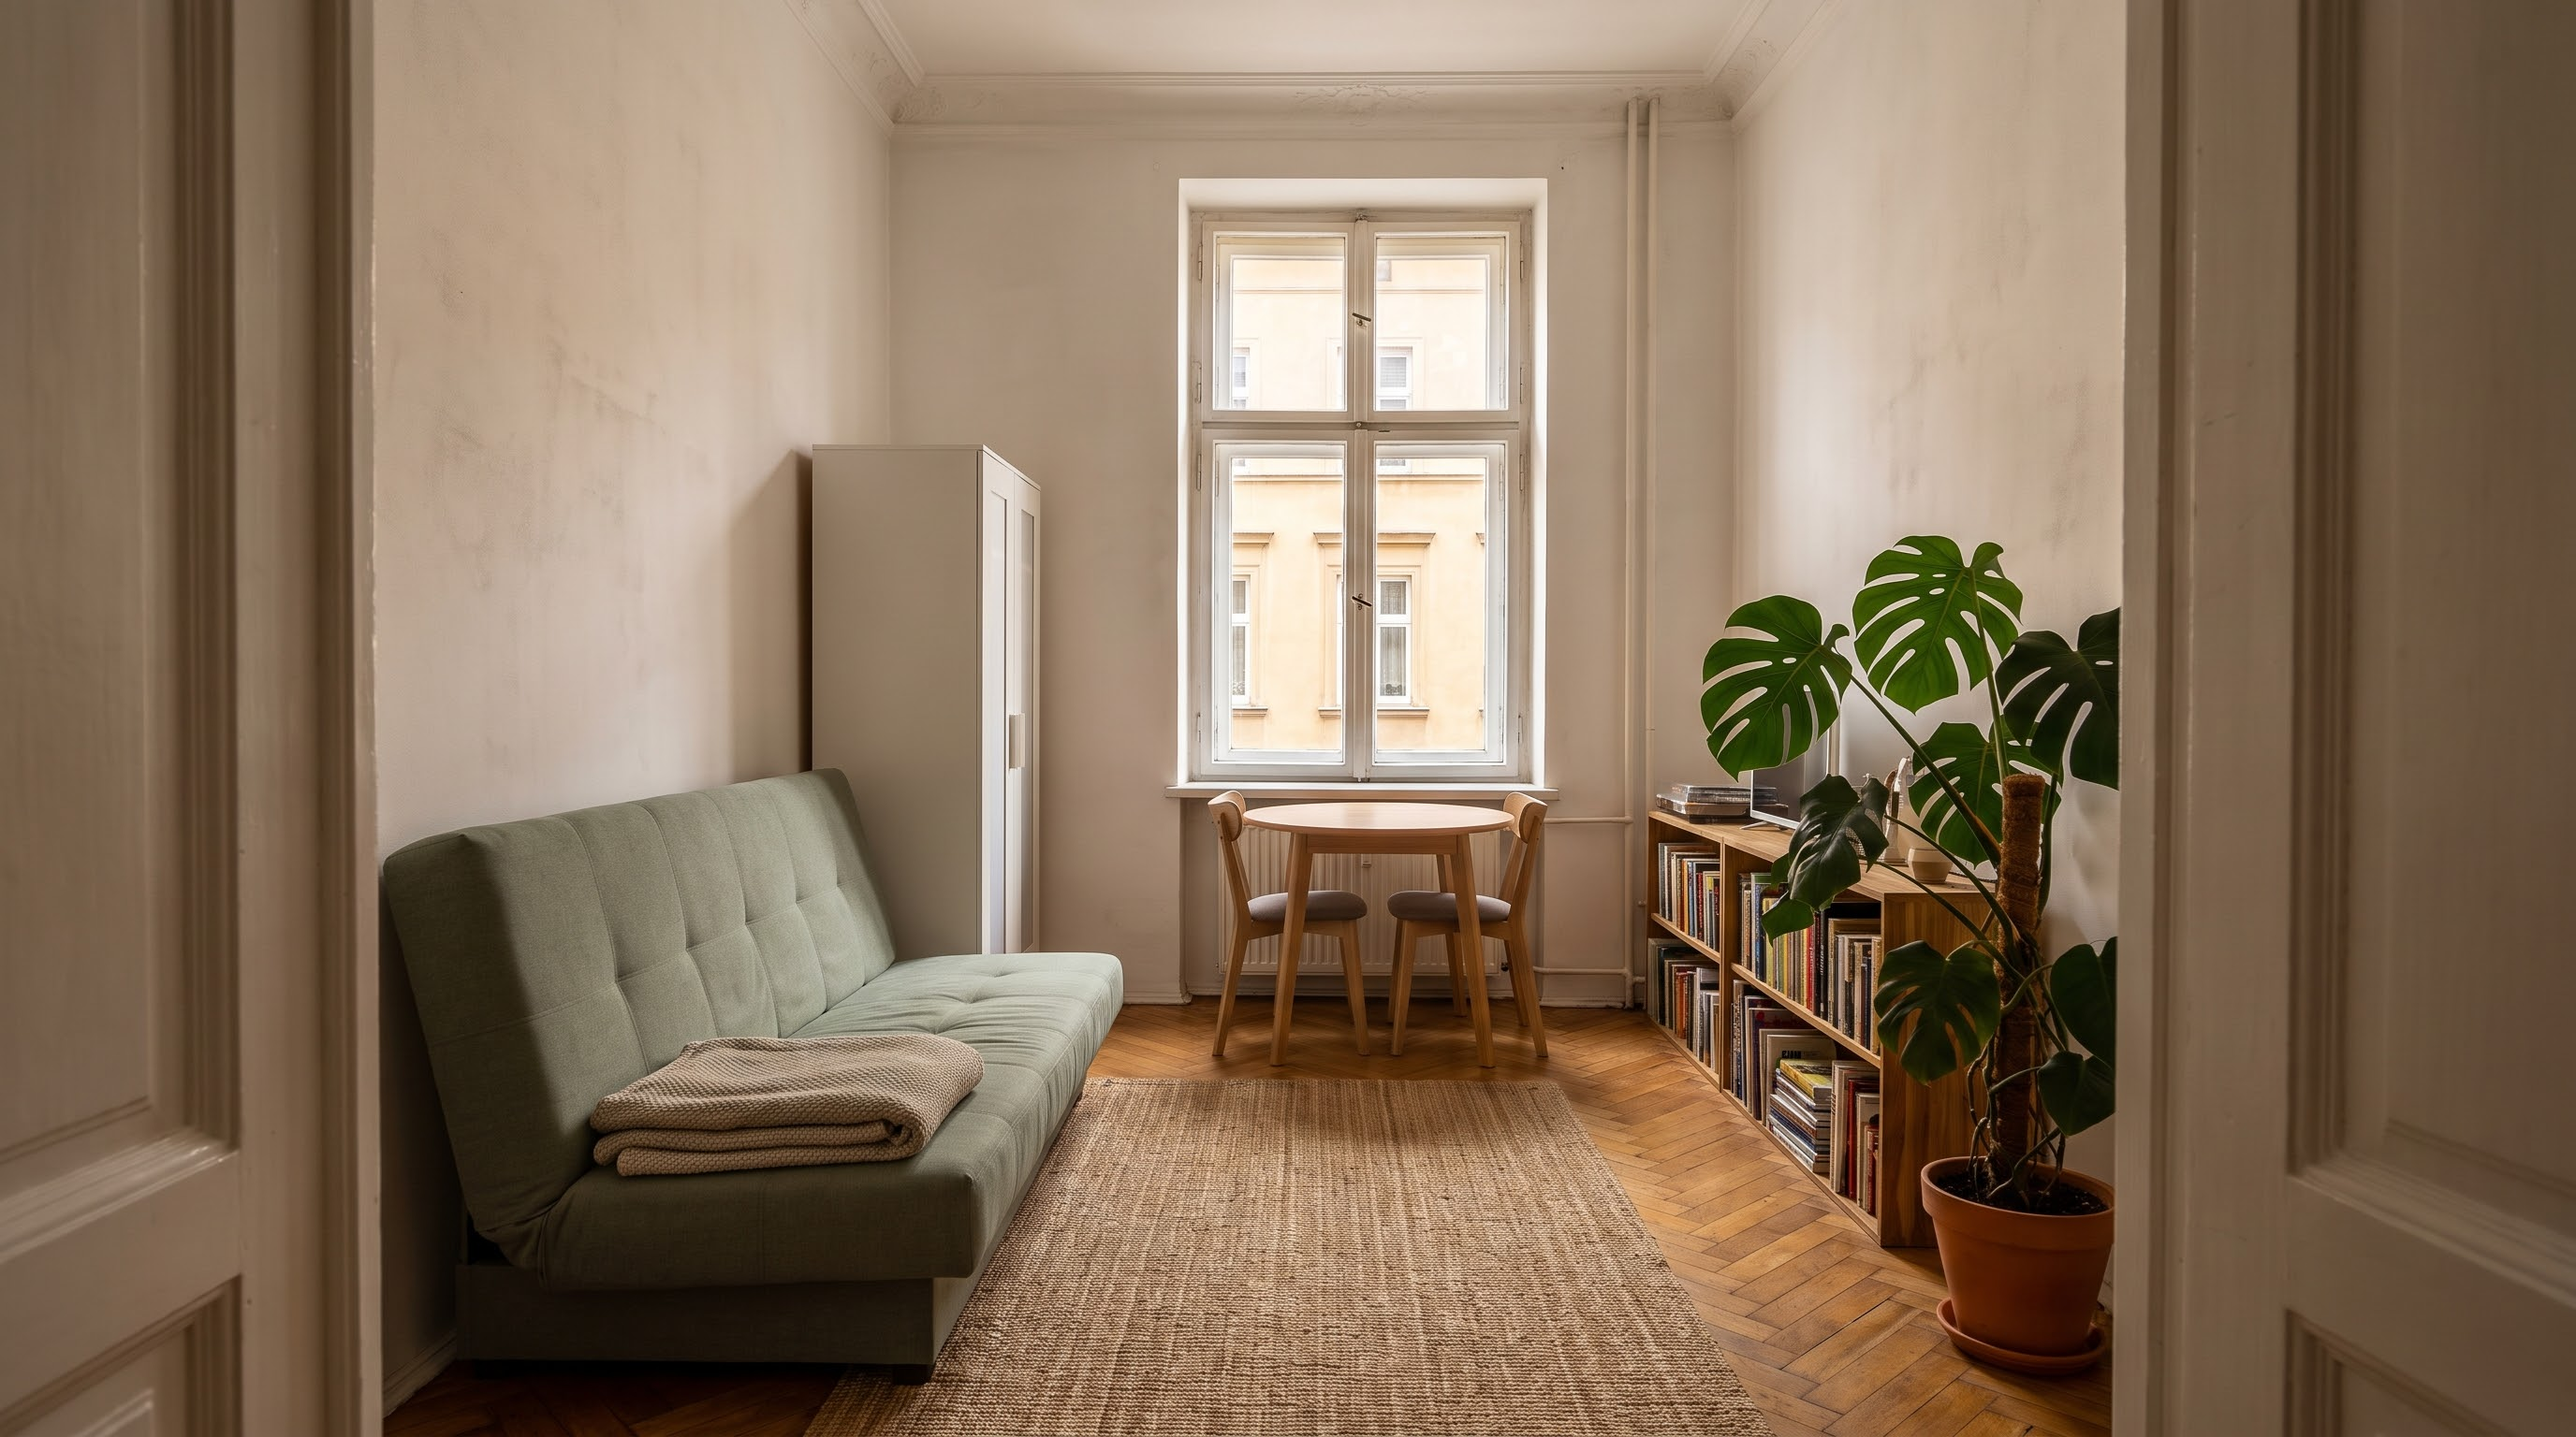
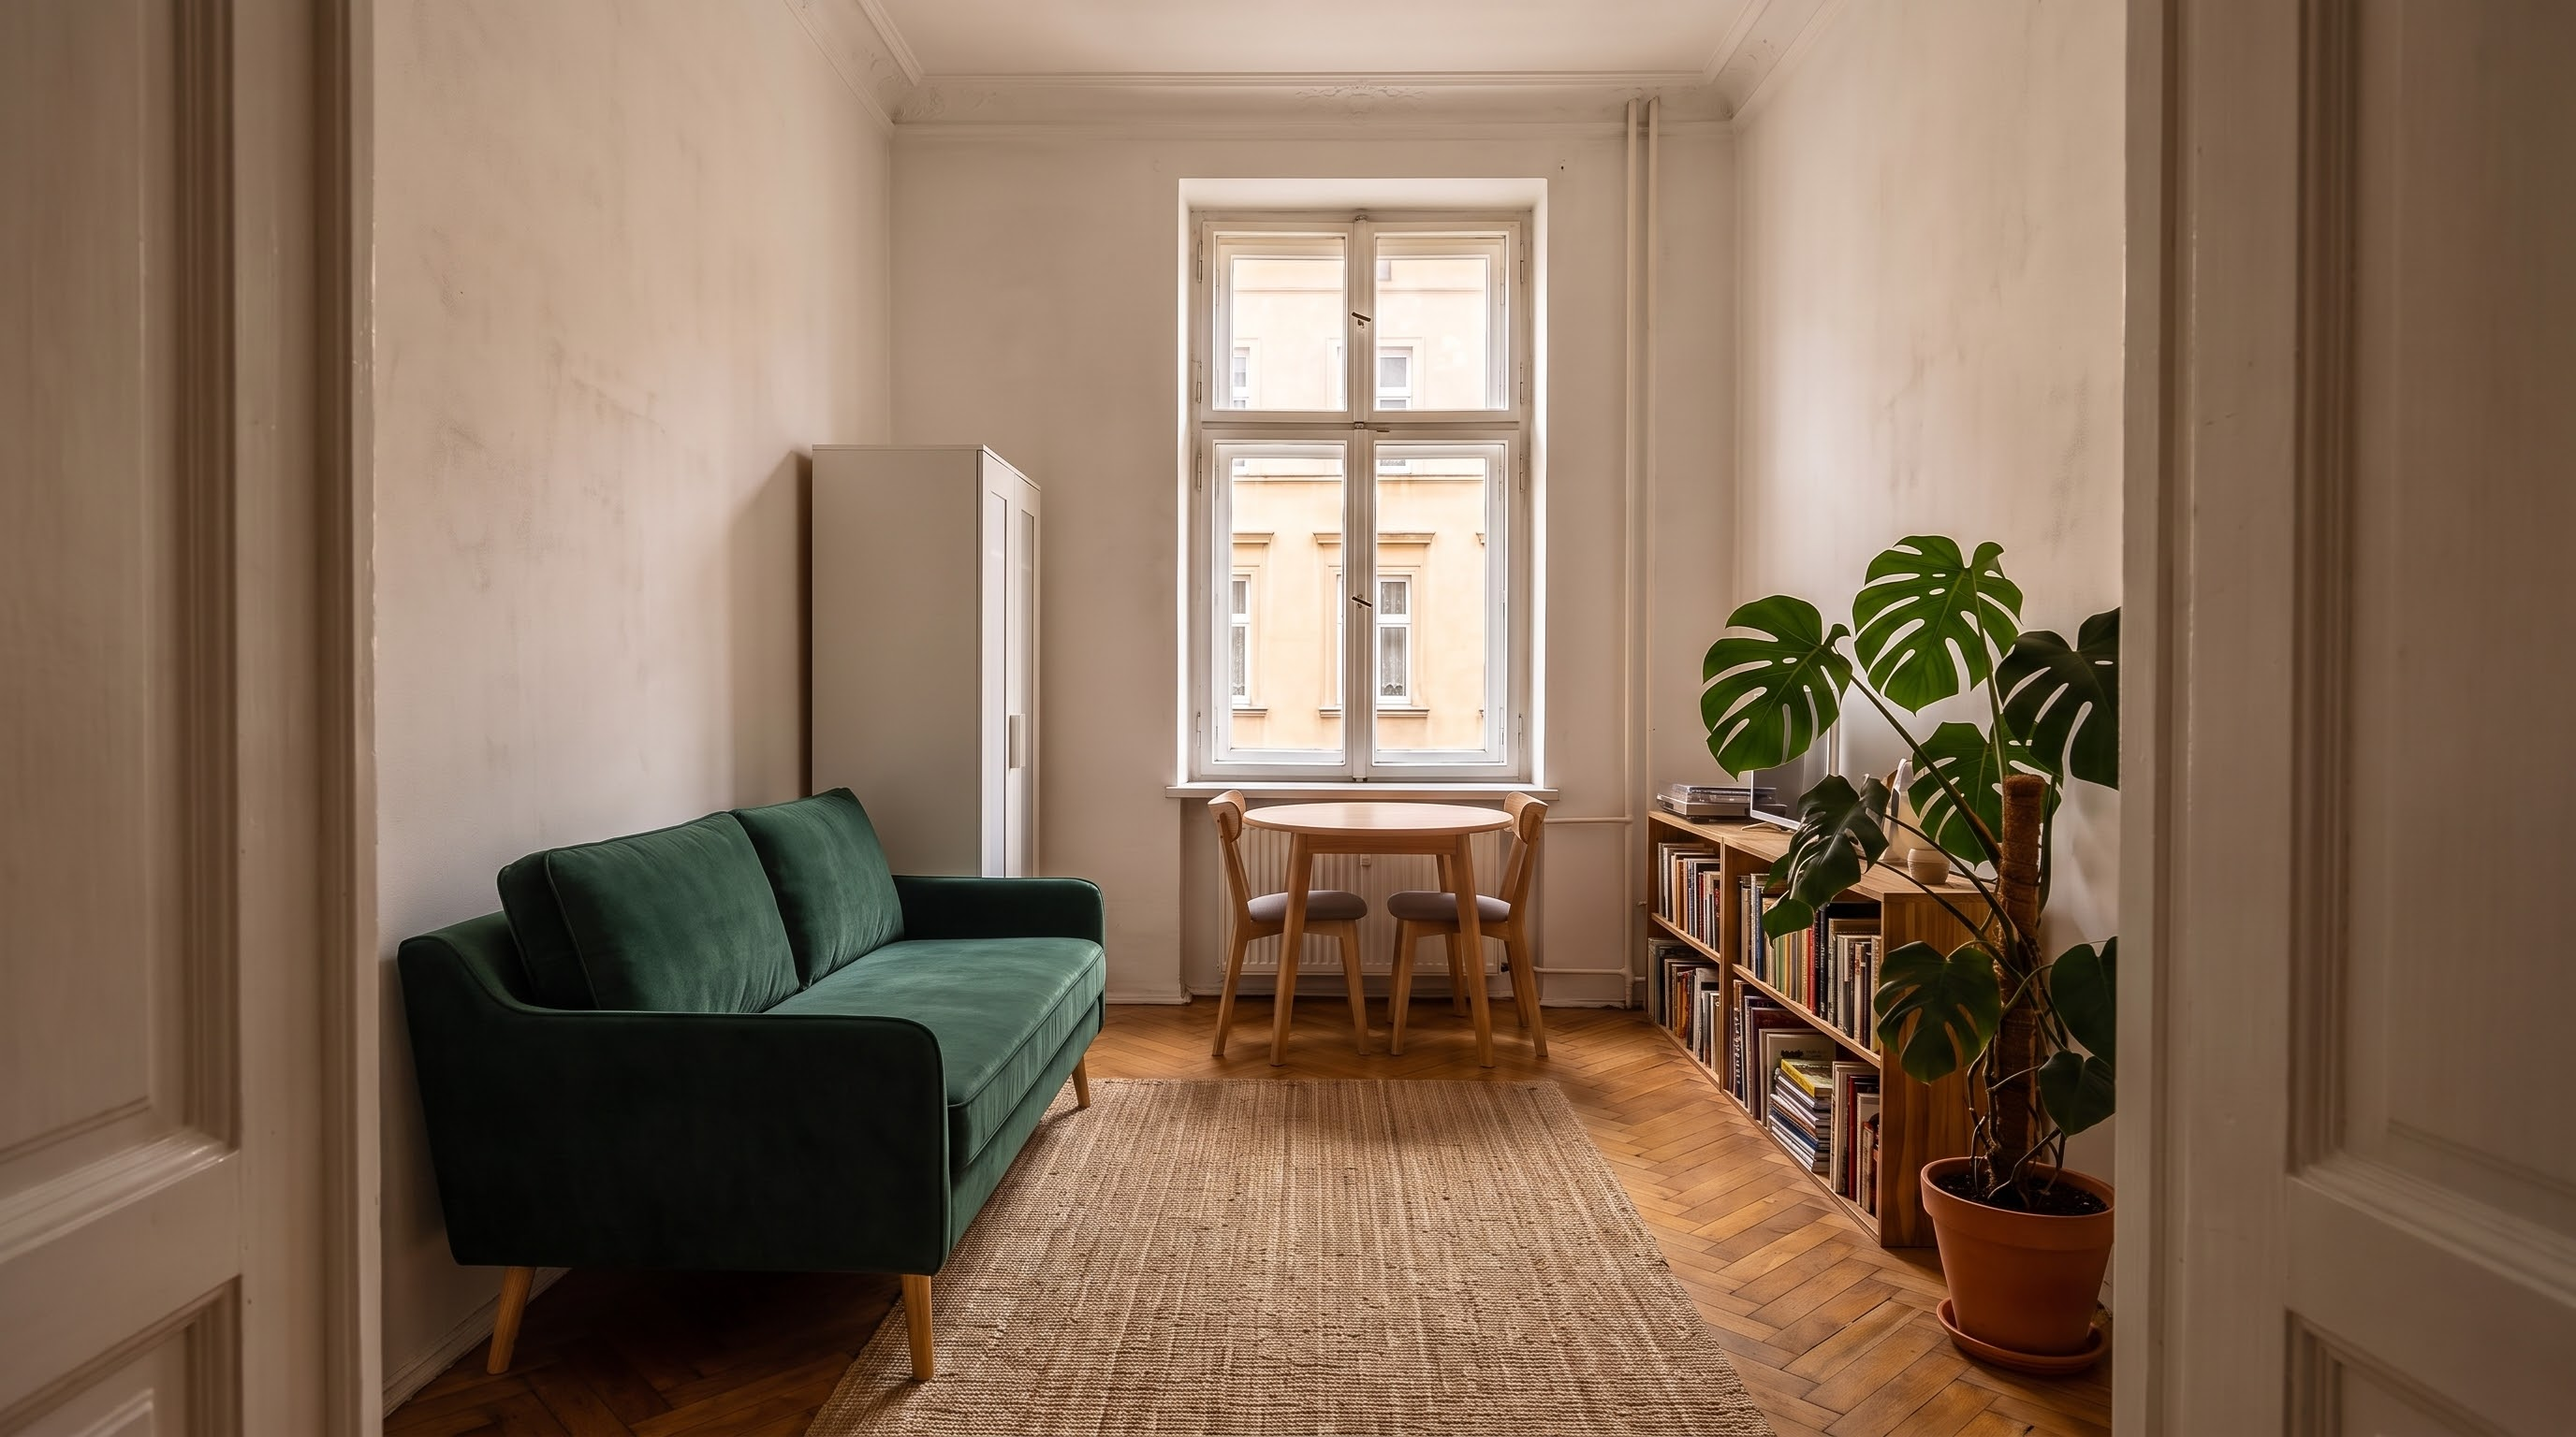
Teledysk: nowa referencja kawalerki z zieloną kanapą
Stara wersja z wersalką zachowana jako kawalerka-wersalka.jpg.

Claude-Session: https://claude.ai/code/session_017HdsdvSM8Q53B8Cp1PevCF

Changed region(s): [[0.125, 0.5312, 0.6875, 1.0], [0.625, 0.5312, 0.7812, 0.8438], [0.5312, 0.4688, 0.5625, 0.5]]

diff --git a/teledysk/lokacje.md b/teledysk/lokacje.md
@@ -36,12 +36,14 @@ DOM: a wide modern single-storey suburban house, long side facing the street, lo
 ![Kawalerka](referencje/kawalerka.jpg)
 
 ```text
-KAWALERKA: a small narrow studio room in an old Polish tenement, seen from the white double entrance door. High ceiling with an ornate plaster cornice, warm-white walls, worn honey-oak herringbone parquet, a woven jute rug. On the far wall, one tall old double-casement window with white wooden frames looking at the pale ochre tenement facade across the street, a white radiator under it, a small round light-oak table with two chairs. Along the left wall, a sage-green fabric sofa bed with a folded oatmeal knit blanket and a narrow white wardrobe behind it. Along the right wall, a long low oak bookshelf packed with books and a tall monstera in a terracotta pot on the floor in the right corner.
+KAWALERKA: a small narrow studio room in an old Polish tenement, seen from the white double entrance door. High ceiling with an ornate plaster cornice, warm-white walls, worn honey-oak herringbone parquet, a woven jute rug. On the far wall, one tall old double-casement window with white wooden frames looking at the pale ochre tenement facade across the street, a white radiator under it, a small round light-oak table with two chairs. Along the left wall, a compact two-seater mid-century sofa bed in deep bottle-green velvet on slim tapered oak legs, a narrow white wardrobe behind it. Along the right wall, a long low oak bookshelf packed with books and a tall monstera in a terracotta pot on the floor in the right corner.
 ```
+
+**Wersja z 9.10:** nowa referencja z butelkowo-zieloną rozkładaną kanapą mid-century (edycja NBP, pokój zachowany 1:1). Stara wersja z szałwiową wersalką i kocem: `referencje/kawalerka-wersalka.jpg`.
 
 **Uwaga:** światło na referencji jest przygaszone i chłodnawe. W ujęciach dziennych możemy dodać słońce wpadające przez okno. Kontrast między ciemną, ciasną kawalerką a jasnym domem jest celowy.
 
-## KAWALERKA: nowa kanapa (w toku)
+## KAWALERKA: nowa kanapa ✅ (zrobione 9.10)
 
 Cel: w tym samym kadrze stara kanapa szałwiowa zamieniona na kompaktową dwuosobową sofę mid-century z butelkowo-zielonego weluru na dębowych nóżkach.
 
@@ -85,6 +87,8 @@ ONLY CHANGE: the sofa. 100% identical otherwise.
 ```
 
 **Wynik 1 (9.10):** pokój przetrwał. Drzwi, okno, szafa, stolik, regał i monstera są w tych samych miejscach, a kanapa jest podmieniona. Dwie poprawki: koc ma zniknąć (zmiana w prompcie powyżej), a wyjście było w 768p, więc generujemy ponownie w 2k lub 4k.
+
+**Wynik 2 (9.10): ✅ zaakceptowany.** Bez koca, 2752×1536, pokój zachowany. Zapisany jako `referencje/kawalerka.jpg`.
 
 Jeśli NBP dalej rusza pokój, jedna zmiana na iterację: najpierw dopisz na początku „Keep the exact same composition and camera as image 1.”. Potem spróbuj **GPT Image 2** (ostatnia deska ratunku, ale lokalnie jest mocny) z tym samym promptem i obiema referencjami.
 

diff --git a/teledysk/STATUS.md b/teledysk/STATUS.md
@@ -8,11 +8,10 @@ Ostatnia aktualizacja: 9.10.2026
 - Scenariusz: 34 ujęcia, zob. `scenariusz-zostan-tu.md`
 - Gotowe klipy: 01-klucz, 02-park, 03-współlokator (`prompty/`)
 - Referencje postaci: Ania, Tomek, @PIESEK (`postacie.md`)
-- Referencje lokacji: salon (antracytowe ramy), dom z zewnątrz, kawalerka ze starą kanapą (`lokacje.md`)
+- Referencje lokacji: salon (antracytowe ramy), dom z zewnątrz, kawalerka z nową butelkowo-zieloną rozkładaną kanapą mid-century (`lokacje.md`; stara wersja: `kawalerka-wersalka.jpg`). Sposób, który zadziałał: najpierw rekwizyt w NBP, potem edycja z dwiema referencjami w 16:9.
 
 ## W toku ⏳
-1. **Kawalerka z nową kanapą.** Kanapa ma być kompaktowa, dwuosobowa, w stylu mid-century, z butelkowo-zielonego weluru, na dębowych nóżkach. Edycja w Nano Banana Pro za każdym razem przerysowywała cały pokój (za duży, inny kąt kamery). Podejrzana przyczyna: proporcja wyjścia inna niż 16:9 oryginału, a do tego model sam wymyślał kanapę. Nowy plan (prompty w `lokacje.md`, sekcja „KAWALERKA: nowa kanapa”): **krok 1** planszka kanapy w NBP → **krok 2** edycja kawalerki w NBP z dwiema referencjami, 16:9 → GPT Image 2 → **plan C** kawalerka od nowa w Soul Cinema (~3 × 4,5 m). Krok 1 zrobiony (wariant zaakceptowany, kanapa rozkładana z ukrytym mechanizmem). Czekamy na oryginał pliku do `referencje/kanapa.jpg`.
-2. **Biały bus.** Wybrana wersja 1 z Nano Banana Pro: duży bus z wysokim dachem, bez logo, przód i tył, 768p. Potrzebny oryginał pliku do `referencje/bus.jpg`.
+1. **Biały bus.** Wybrana wersja 1 z Nano Banana Pro: duży bus z wysokim dachem, bez logo, przód i tył, 768p. Potrzebny oryginał pliku do `referencje/bus.jpg`.
 
 ## Następne kroki ▶
 - Pomysł: zielona kanapa jako jedyny mebel, który przetrwał przeprowadzkę. Stoi potem w salonie nowego domu (outro: śpią na niej z psem zamiast na materacu). Do decyzji.
